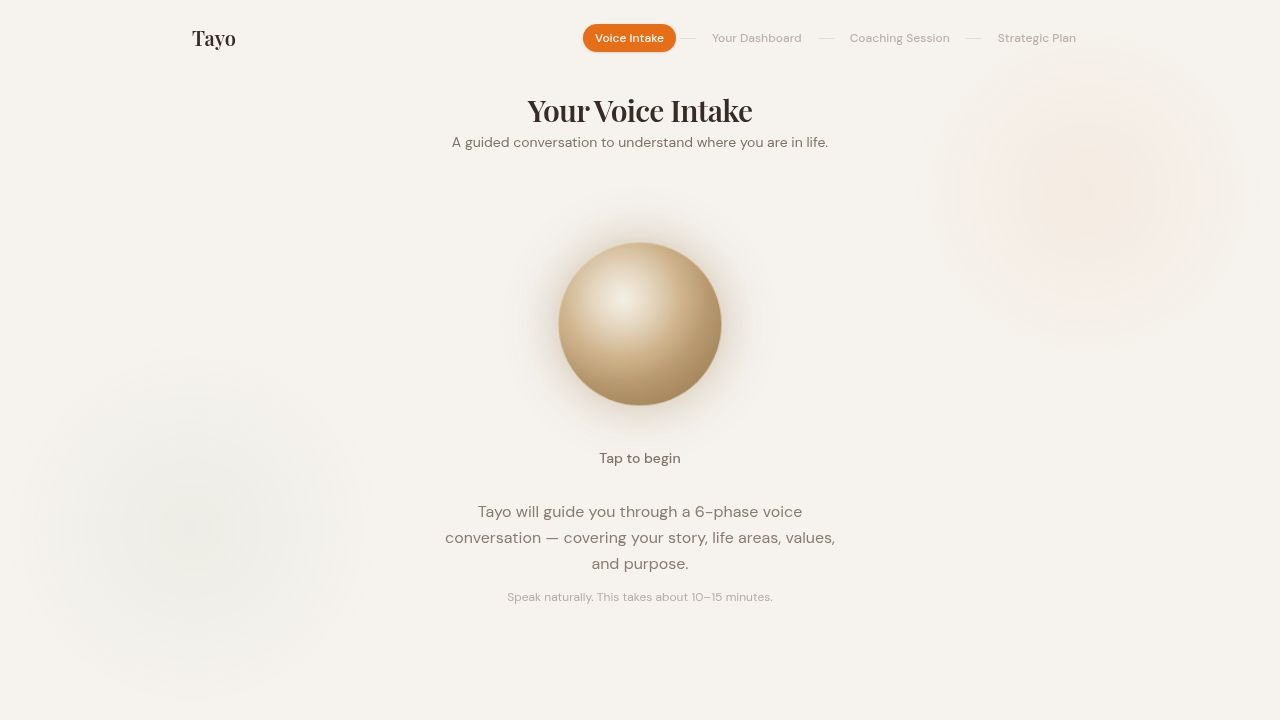
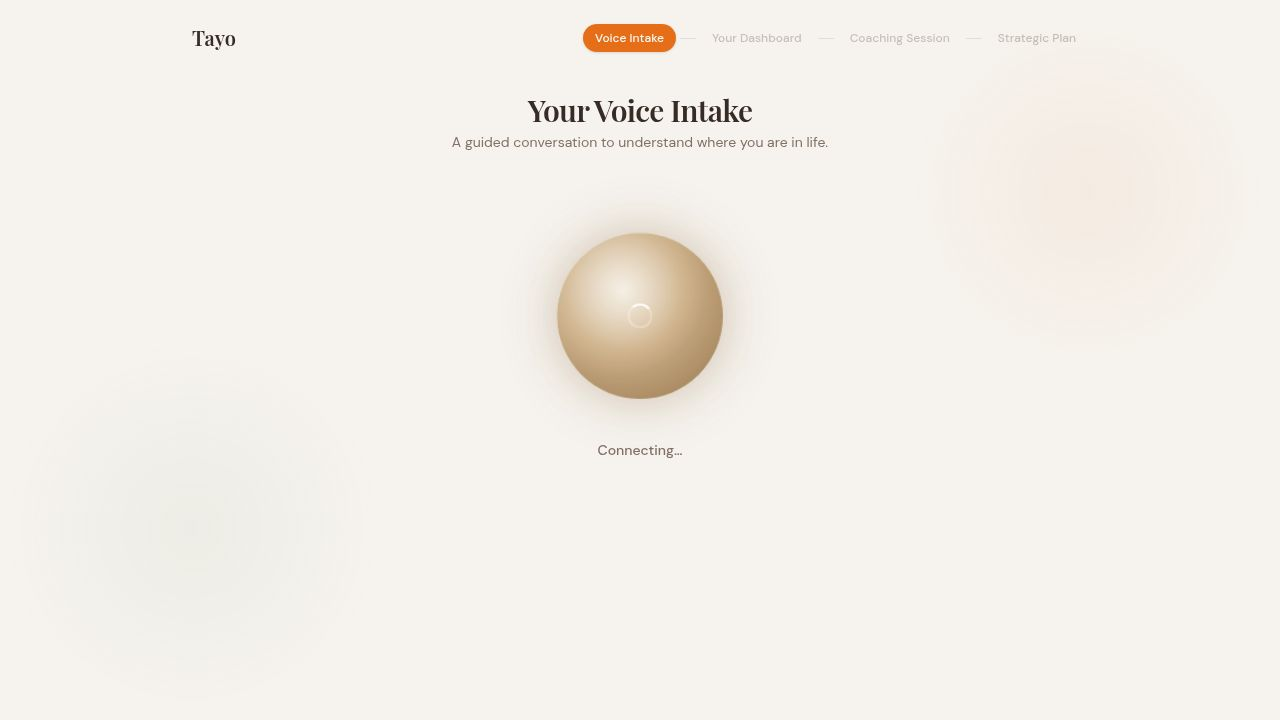
Fix 4 pending issues in Tayo v2:
1. WellnessPyramid rewrite — 3 equal tier bands (meaning=top, growth=middle,
   foundational=bottom), each (baseY-apexY)/3 height. Dimensions within each
   tier subdivided equally as trapezoid segments. Tier labels on right edge,
   tier boundary divider lines, gold apex, brown #2C1810 outline.

2. Dashboard narrative audio prefetch — after /api/narrative returns, silently
   calls speakText() and stores the Audio object in prefetchedAudioRef. On
   first Play click uses the cached audio instantly (no network wait). Falls
   back to on-demand fetch if prefetch failed. No autoplay.

3. API TypeScript fix for /transcribe — Buffer.buffer.slice(byteOffset,
   byteOffset+byteLength) as ArrayBuffer to satisfy File constructor types.
   pnpm tsc --noEmit passes with 0 errors.

4. extract-profile firstName fix — prompt now says 'extract the user's first
   name from the conversation; use Friend if not mentioned', removing the
   hardcoded template literal that prevented correct extraction.

diff --git a/artifacts/tayo/src/pages/Dashboard.tsx b/artifacts/tayo/src/pages/Dashboard.tsx
@@ -32,7 +32,7 @@ function thrivingColor(thriving: number): string {
   return "#6B3520";                        // low — deep mahogany
 }
 
-// ─── Per-Dimension Segmented SVG Pyramid ─────────────────────────────────────
+// ─── 3-Tier SVG Pyramid with per-dimension subdivision ───────────────────────
 function WellnessPyramid({ dimensions }: { dimensions: TayoDimension[] }) {
   const W = 340;
   const H = 320;
@@ -40,88 +40,96 @@ function WellnessPyramid({ dimensions }: { dimensions: TayoDimension[] }) {
   const apexY = 10;
   const baseY = H - 4;
 
-  // Order: meaning (top) → growth (middle) → foundational (bottom)
-  const ordered = [
-    ...dimensions.filter(d => d.tier === "meaning"),
-    ...dimensions.filter(d => d.tier === "growth"),
-    ...dimensions.filter(d => d.tier === "foundational"),
-  ];
+  // Split dimensions by tier
+  const meaningDims = dimensions.filter(d => d.tier === "meaning");
+  const growthDims = dimensions.filter(d => d.tier === "growth");
+  const foundDims = dimensions.filter(d => d.tier === "foundational");
 
-  const N = ordered.length;
-  if (N === 0) return <p className="text-sm text-muted-foreground text-center py-8">No dimensions to display.</p>;
+  // 3 equal tier y-boundaries
+  const totalH = baseY - apexY;
+  const tierH = totalH / 3;
+  const tierY = [apexY, apexY + tierH, apexY + 2 * tierH, baseY];
 
-  // At a given y, the pyramid half-width
+  // Half-width at a given y on the pyramid
   function halfW(y: number): number {
     return ((y - apexY) / (baseY - apexY)) * (W / 2 - 6);
   }
 
-  const segH = (baseY - apexY) / N;
+  // Subdivide one tier into equal trapezoid segments (one per dimension)
+  function makeTierSegments(dims: TayoDimension[], y1: number, y2: number) {
+    if (dims.length === 0) {
+      const hw1 = halfW(y1);
+      const hw2 = halfW(y2);
+      const pts = y1 <= apexY + 1
+        ? `${cx},${apexY} ${cx + hw2},${y2} ${cx - hw2},${y2}`
+        : `${cx - hw1},${y1} ${cx + hw1},${y1} ${cx + hw2},${y2} ${cx - hw2},${y2}`;
+      return [{ dim: null as TayoDimension | null, pts, midY: (y1 + y2) / 2, sy2: y2, hw2 }];
+    }
+    const segH = (y2 - y1) / dims.length;
+    return dims.map((dim, i) => {
+      const sy1 = y1 + i * segH;
+      const sy2 = y1 + (i + 1) * segH;
+      const hw1 = halfW(sy1);
+      const hw2 = halfW(sy2);
+      const midY = (sy1 + sy2) / 2;
+      const pts = sy1 <= apexY + 1
+        ? `${cx},${apexY} ${cx + hw2},${sy2} ${cx - hw2},${sy2}`
+        : `${cx - hw1},${sy1} ${cx + hw1},${sy1} ${cx + hw2},${sy2} ${cx - hw2},${sy2}`;
+      return { dim: dim as TayoDimension | null, pts, midY, sy2, hw2 };
+    });
+  }
 
-  const segments = ordered.map((dim, i) => {
-    const y1 = apexY + i * segH;
-    const y2 = apexY + (i + 1) * segH;
-    const hw1 = halfW(y1);
-    const hw2 = halfW(y2);
-    const midY = (y1 + y2) / 2;
+  const allSegs = [
+    ...makeTierSegments(meaningDims, tierY[0], tierY[1]),
+    ...makeTierSegments(growthDims, tierY[1], tierY[2]),
+    ...makeTierSegments(foundDims, tierY[2], tierY[3]),
+  ];
 
-    // Trapezoid (or triangle at very top)
-    const pts = i === 0
-      ? `${cx},${apexY} ${cx + hw2},${y2} ${cx - hw2},${y2}`
-      : `${cx - hw1},${y1} ${cx + hw1},${y1} ${cx + hw2},${y2} ${cx - hw2},${y2}`;
-
-    return { dim, y1, y2, midY, pts, hw1, hw2 };
-  });
+  // Tier divider line y-values and right-edge label positions
+  const tierMids = [(tierY[0] + tierY[1]) / 2, (tierY[1] + tierY[2]) / 2, (tierY[2] + tierY[3]) / 2];
+  const TIER_LABELS = ["MEANING", "GROWTH", "FOUNDATIONAL"];
 
   return (
     <div className="w-full max-w-xs mx-auto">
       <svg viewBox={`0 0 ${W} ${H}`} width="100%" style={{ maxWidth: 320 }}>
-        {/* Per-dimension trapezoid segments */}
-        {segments.map(({ dim, pts, midY, y2, hw2 }) => (
-          <g key={dim.name}>
+        {/* Dimension segment polygons + labels */}
+        {allSegs.map(({ dim, pts, midY }, idx) => (
+          <g key={idx}>
             <polygon
               points={pts}
-              fill={thrivingColor(dim.thriving)}
-              stroke="#5C4A30"
-              strokeWidth="1.5"
-            />
-            {/* Dimension name — cream colored centered label */}
-            <text
-              x={cx}
-              y={midY - 3}
-              textAnchor="middle"
-              fontSize="11"
-              fontWeight="700"
-              fill="#F5F0E8"
-              fontFamily="DM Sans, sans-serif"
-              style={{ textShadow: "0 1px 2px rgba(0,0,0,0.3)" }}
-            >
-              {dim.name.length > 22 ? dim.name.slice(0, 20) + "…" : dim.name}
-            </text>
-            <text
-              x={cx}
-              y={midY + 10}
-              textAnchor="middle"
-              fontSize="9"
-              fill="rgba(245,240,232,0.75)"
-              fontFamily="DM Sans, sans-serif"
-            >
-              {dim.thriving}/10 · {dim.tier}
-            </text>
-            {/* Divider line between segments */}
-            <line
-              x1={cx - hw2}
-              y1={y2}
-              x2={cx + hw2}
-              y2={y2}
-              stroke="#5C4A30"
+              fill={dim ? thrivingColor(dim.thriving) : "#8B6940"}
+              stroke="#2C1810"
               strokeWidth="1"
-              strokeDasharray="4,3"
-              opacity="0.5"
             />
+            {dim && (
+              <>
+                <text x={cx} y={midY - 3} textAnchor="middle" fontSize="11" fontWeight="700" fill="#F5F0E8" fontFamily="DM Sans, sans-serif">
+                  {dim.name.length > 22 ? dim.name.slice(0, 20) + "…" : dim.name}
+                </text>
+                <text x={cx} y={midY + 10} textAnchor="middle" fontSize="9" fill="rgba(245,240,232,0.72)" fontFamily="DM Sans, sans-serif">
+                  {dim.thriving}/10
+                </text>
+              </>
+            )}
+            {!dim && (
+              <text x={cx} y={midY + 4} textAnchor="middle" fontSize="10" fill="rgba(245,240,232,0.4)" fontFamily="DM Sans, sans-serif" fontStyle="italic">—</text>
+            )}
           </g>
         ))}
 
-        {/* Gold Self-Actualization apex tip per spec */}
+        {/* Tier boundary divider lines */}
+        {[tierY[1], tierY[2]].map((y, i) => (
+          <line key={i} x1={cx - halfW(y)} y1={y} x2={cx + halfW(y)} y2={y} stroke="#2C1810" strokeWidth="1.5" />
+        ))}
+
+        {/* Tier labels on right edge */}
+        {tierMids.map((midY, i) => (
+          <text key={i} x={cx + halfW(midY) + 5} y={midY + 4} fontSize="8" fill="rgba(44,24,16,0.5)" fontFamily="DM Sans, sans-serif" letterSpacing="0.5" fontWeight="600">
+            {TIER_LABELS[i]}
+          </text>
+        ))}
+
+        {/* Gold Self-Actualization apex tip */}
         <polygon
           points={`${cx},${apexY} ${cx - 14},${apexY + 22} ${cx + 14},${apexY + 22}`}
           fill="#D4A843"
@@ -129,7 +137,7 @@ function WellnessPyramid({ dimensions }: { dimensions: TayoDimension[] }) {
           strokeWidth="1.5"
         />
 
-        {/* Outer pyramid outline — warm brown #2C1810 per spec */}
+        {/* Warm brown outer outline */}
         <polygon
           points={`${cx},${apexY} ${cx - halfW(baseY)},${baseY} ${cx + halfW(baseY)},${baseY}`}
           fill="none"
@@ -240,11 +248,13 @@ export default function Dashboard() {
   const [orbState, setOrbState] = useState<OrbState>("idle");
   const [isNarrativePlaying, setIsNarrativePlaying] = useState(false);
   const audioRef = useRef<HTMLAudioElement | null>(null);
+  const prefetchedAudioRef = useRef<HTMLAudioElement | null>(null);
 
   useEffect(() => {
     if (isHydrated && !profile) setLocation("/");
   }, [isHydrated, profile, setLocation]);
 
+  // Fetch narrative text then pre-fetch TTS audio (store Blob URL, do NOT auto-play)
   useEffect(() => {
     if (!profile || narrative) return;
     const fetchNarrative = async () => {
@@ -256,7 +266,13 @@ export default function Dashboard() {
           body: JSON.stringify({ profile }),
         });
         const data = await res.json();
-        setNarrative(data.narrative as string);
+        const narrativeText = data.narrative as string;
+        setNarrative(narrativeText);
+
+        // Pre-fetch TTS so it's instant on first Play click — do NOT auto-play
+        speakText(narrativeText)
+          .then(audio => { prefetchedAudioRef.current = audio; })
+          .catch(() => { /* prefetch failed — will fetch on demand */ });
       } catch {
         setNarrative(profile.overallNarrative ?? null);
       } finally {
@@ -278,10 +294,12 @@ export default function Dashboard() {
     setOrbState("speaking");
     setIsNarrativePlaying(true);
     try {
-      const audio = await speakText(narrative);
+      const audio = prefetchedAudioRef.current ?? await speakText(narrative);
+      prefetchedAudioRef.current = null;
       audioRef.current = audio;
       audio.play();
       audio.onended = () => { setIsNarrativePlaying(false); setOrbState("idle"); };
+      audio.onerror = () => { setIsNarrativePlaying(false); setOrbState("idle"); };
     } catch {
       setIsNarrativePlaying(false);
       setOrbState("idle");

diff --git a/artifacts/api-server/src/routes/chat.ts b/artifacts/api-server/src/routes/chat.ts
@@ -26,8 +26,13 @@ router.post("/transcribe", upload.single("audio"), async (req: Request, res: Res
       return;
     }
 
+    // Cast buffer to ArrayBuffer to satisfy File constructor typings
+    const arrayBuf = req.file.buffer.buffer.slice(
+      req.file.buffer.byteOffset,
+      req.file.buffer.byteOffset + req.file.buffer.byteLength
+    ) as ArrayBuffer;
     const transcription = await openai.audio.transcriptions.create({
-      file: new File([req.file.buffer], "audio.webm", { type: req.file.mimetype || "audio/webm" }),
+      file: new File([arrayBuf], "audio.webm", { type: req.file.mimetype || "audio/webm" }),
       model: "whisper-1",
     });
 
@@ -127,14 +132,15 @@ router.post("/extract-profile", async (req: Request, res: Response) => {
       firstName: string;
     };
 
-    const prompt = `You are an expert life coach analyst. Based on the following voice conversation transcript between Tayo (an AI life coach) and ${firstName}, extract a rich structured profile.
+    const nameHint = firstName ? `and ${firstName}` : "";
+    const prompt = `You are an expert life coach analyst. Based on the following voice conversation transcript between Tayo (an AI life coach) ${nameHint}, extract a rich structured profile.
 
 Conversation:
 ${conversationText}
 
 Return ONLY a valid JSON object matching this exact schema (no markdown, no explanation):
 {
-  "firstName": "${firstName}",
+  "firstName": "string (extract the user's first name from the conversation; use 'Friend' if not mentioned)",
   "dimensions": [
     {
       "name": "string (e.g. Emotional Wellbeing, Career & Purpose, Physical Health, Relationships, Financial Security)",